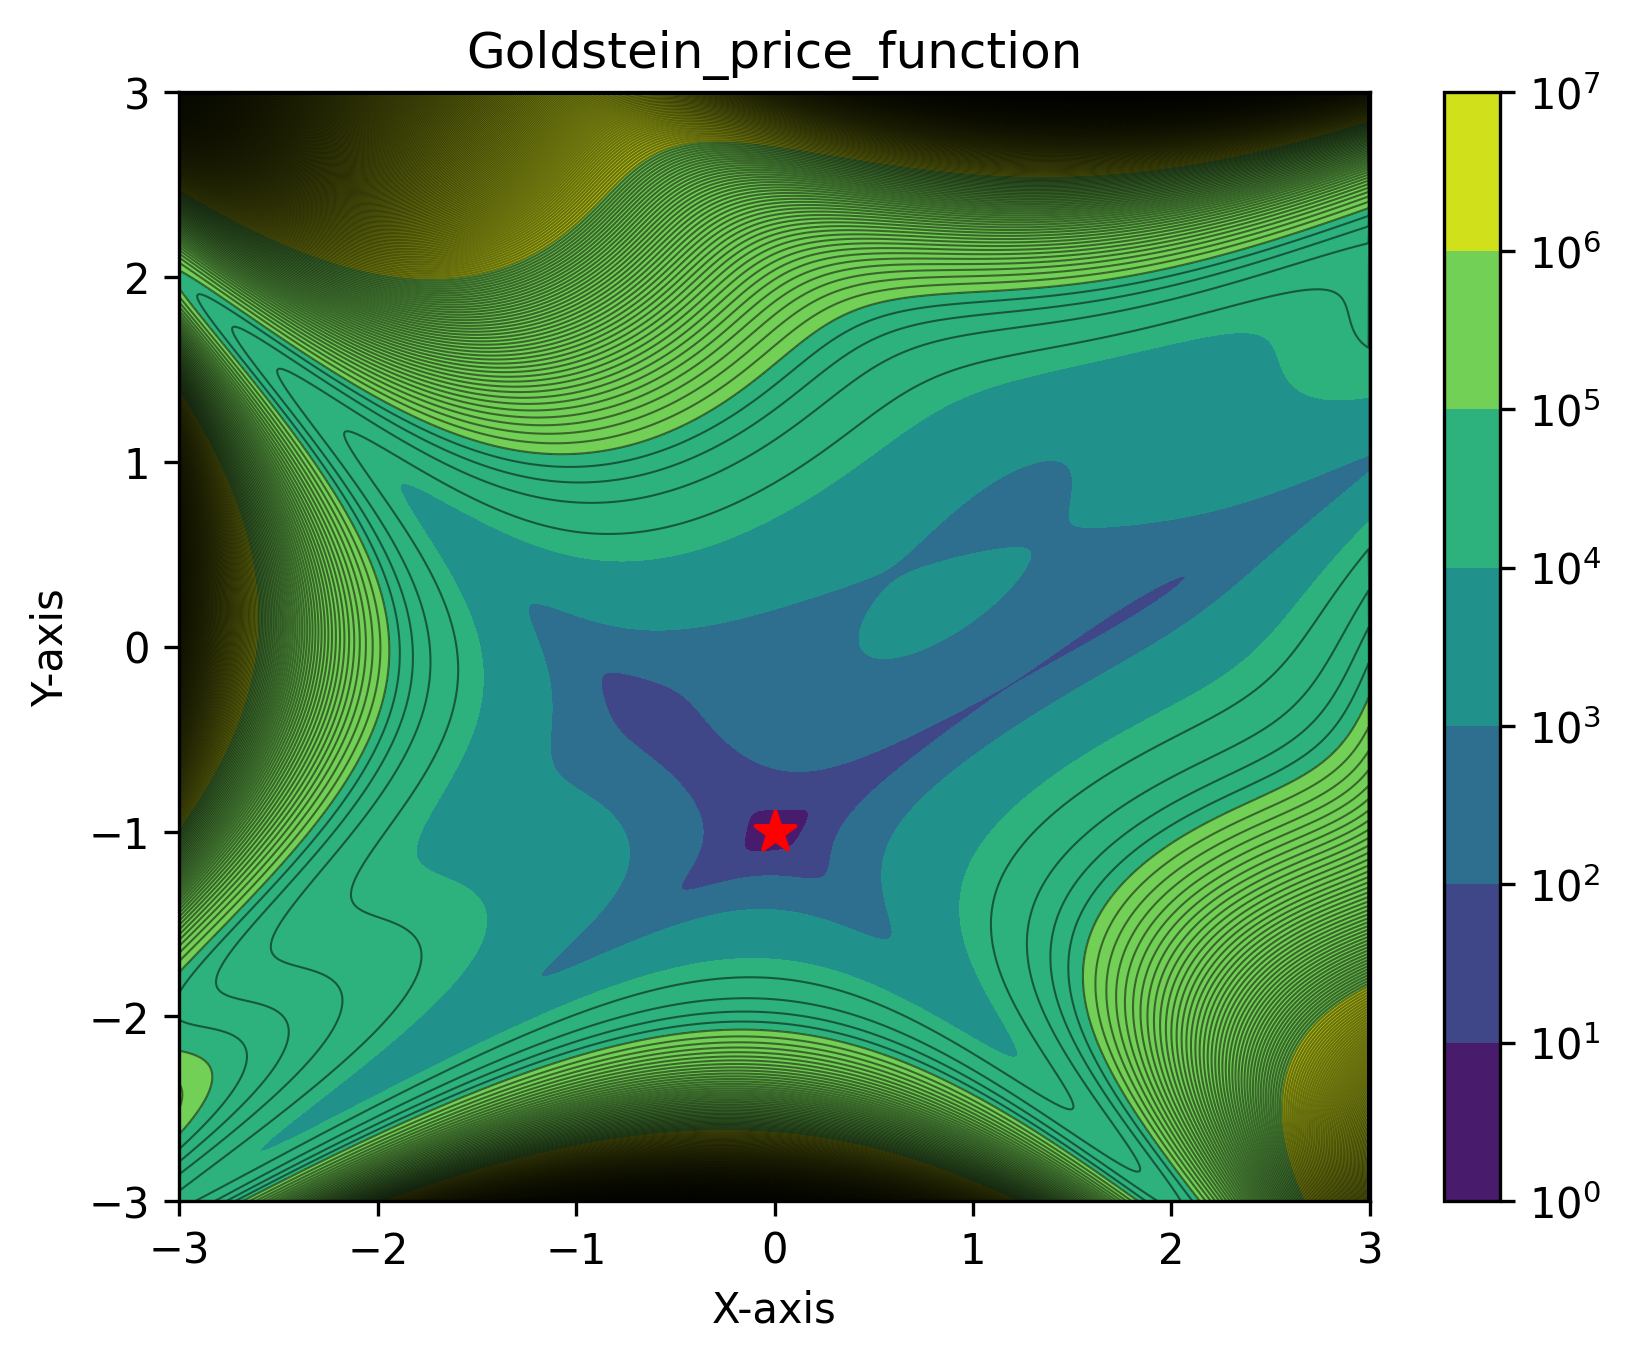
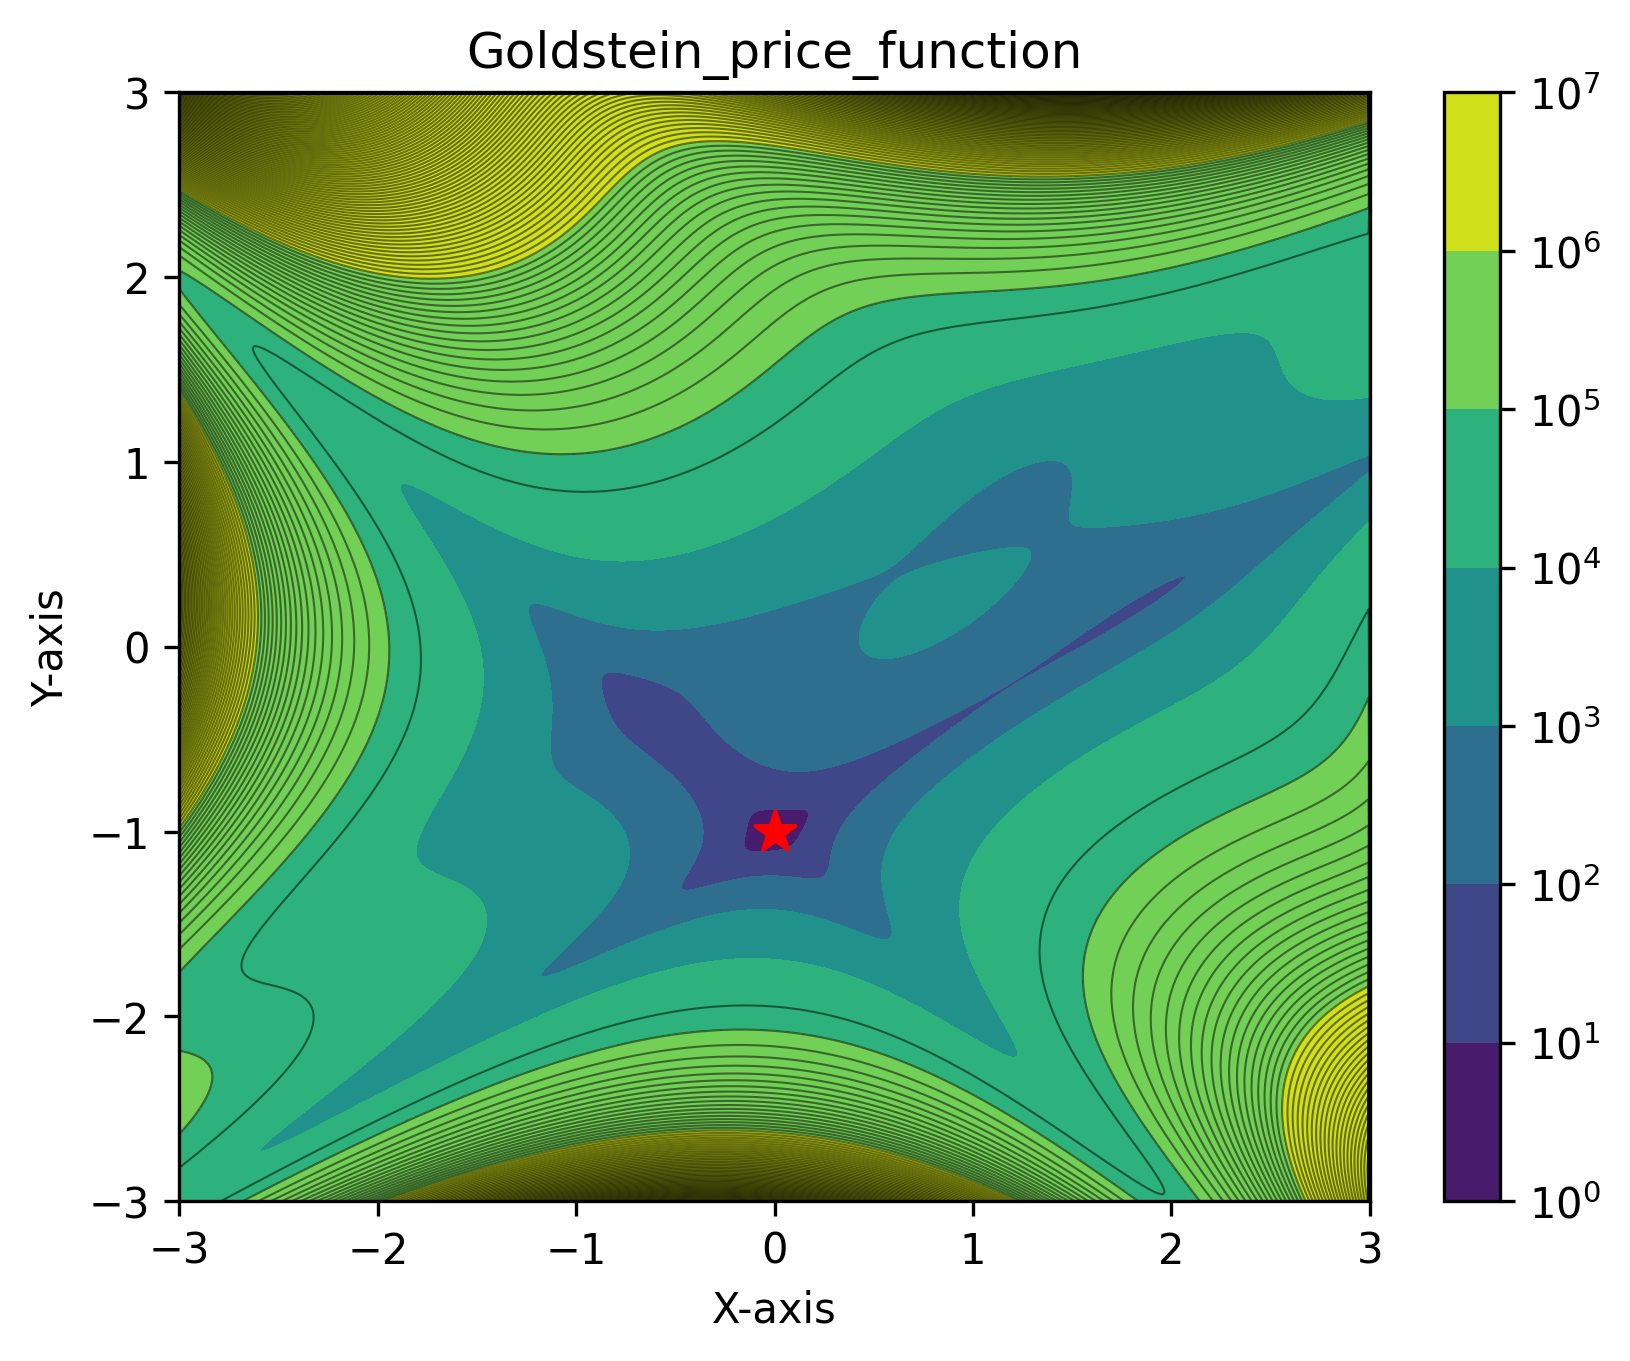
fully set with function changes and plot compatibility. Added newest figures.

Changed region(s): [[0.092, 0.0617, 0.8589, 0.7098], [0.092, 0.4629, 0.8589, 0.8949]]

diff --git a/multi_objective.py b/multi_objective.py
@@ -85,8 +85,8 @@ def Normal_Boundary_Intersection(f,x0,the_bounds):
 
 
 f1 = sphere_function
-f2 = Goldstein_price_function
-# f2 = sphere_function2
+f2 = sphere_function2
+# f2 = Goldstein_price_function
 
 the_bounds = ((-3,3),(-3,3))
 # the_bounds = ((-2,2),(-2,1))
@@ -96,7 +96,7 @@ res = opt(f1,x0)
 res2 = opt(f2,x0,bounds = the_bounds)
 # Normal_Boundary_Intersection([f1,f2],x0,the_bounds)
 
-n_pareto_points = 100
+n_pareto_points = 10000
 x_stars,f_stars = Weighted_Sum([f1,f2],x0,the_bounds,n = n_pareto_points)
 
 print('\n',res)
@@ -122,9 +122,31 @@ for i in range(len(x)-1):
     for j in range(len(x)-1):
         Z2[i,j] = f2([x[i],y[j]])
 
+# We want to plot f1 vs f2 using the points on the pareto fron in xstars
+X_pareto = np.zeros((len(x_stars),1))
+Y_pareto = np.zeros((len(x_stars),1))
+for i in range(len(x_stars)):
+    X_pareto[i] = f1(x_stars[i])
+    Y_pareto[i] = f2(x_stars[i])
+
+
 # ------------------------------- Plotting the results -------------------------------
+
 save_figs = True
 save_path = 'Multiobjective_optimization\\figures\\'
+
+plt.figure()
+plt.ion()
+plt.plot(X_pareto,Y_pareto, label='Pareto Front')
+plt.xlabel('f1')
+plt.ylabel('f2')
+plt.legend()
+if(save_figs):
+    if(f2.__name__ == 'Goldstein_price_function'):
+        plt.savefig(save_path + 'Pareto_front2.png', dpi=300, bbox_inches='tight')
+    else:
+        plt.savefig(save_path + 'Pareto_front1.png', dpi=300, bbox_inches='tight')
+    
 # plot the first function on its own with its best point
 nlevels = 100
 fig,ax = plt.subplots()
@@ -176,5 +198,8 @@ c2.set_label('f2')
 plt.legend()
 plt.title('Pareto Front')
 if(save_figs):
-    plt.savefig(save_path + 'Pareto_front2.png', dpi=300, bbox_inches='tight')
+    if(f2.__name__ == "Goldstein_price_function"):
+        plt.savefig(save_path + 'Surface_parteto2.png', dpi=300, bbox_inches='tight')
+    else:
+        plt.savefig(save_path + 'Surface_parteto1.png', dpi=300, bbox_inches='tight')
 plt.show()
